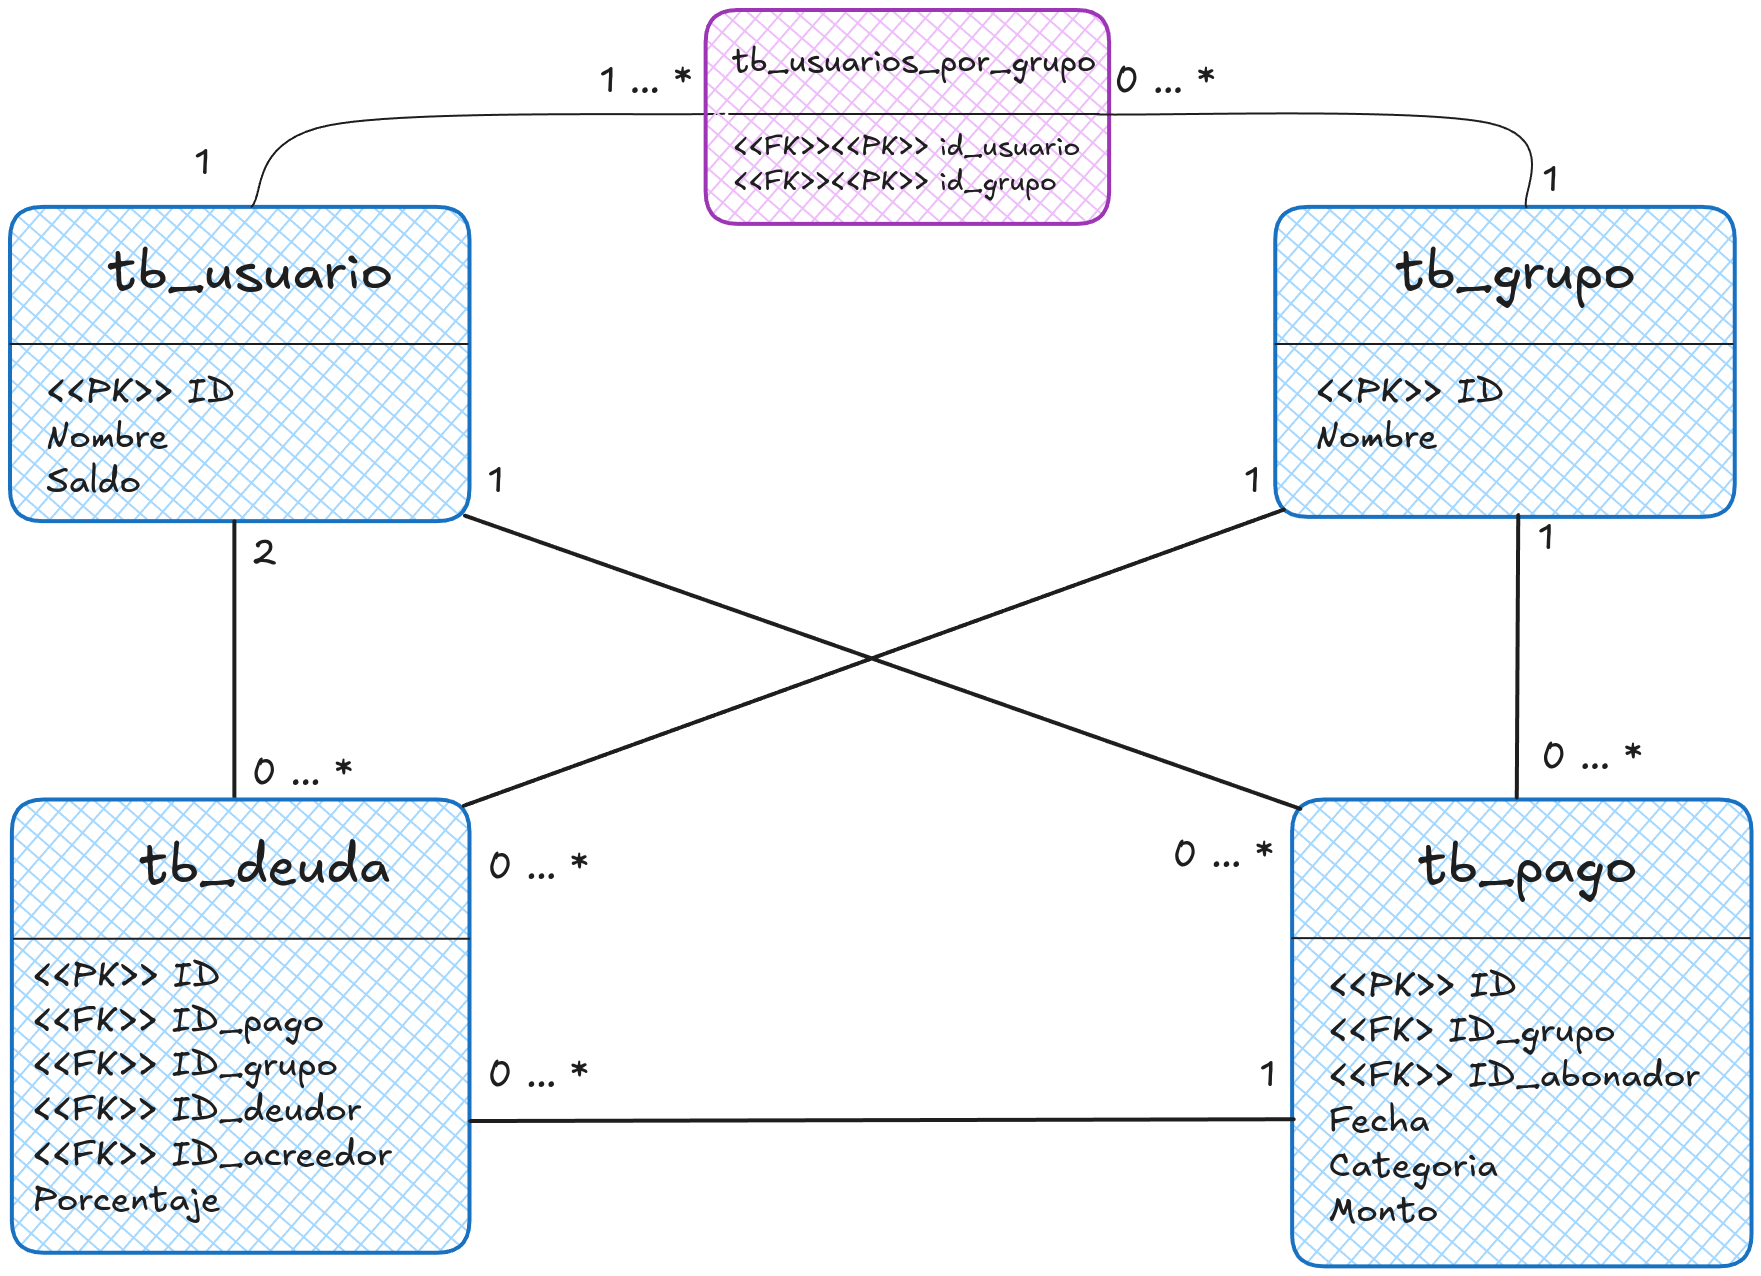
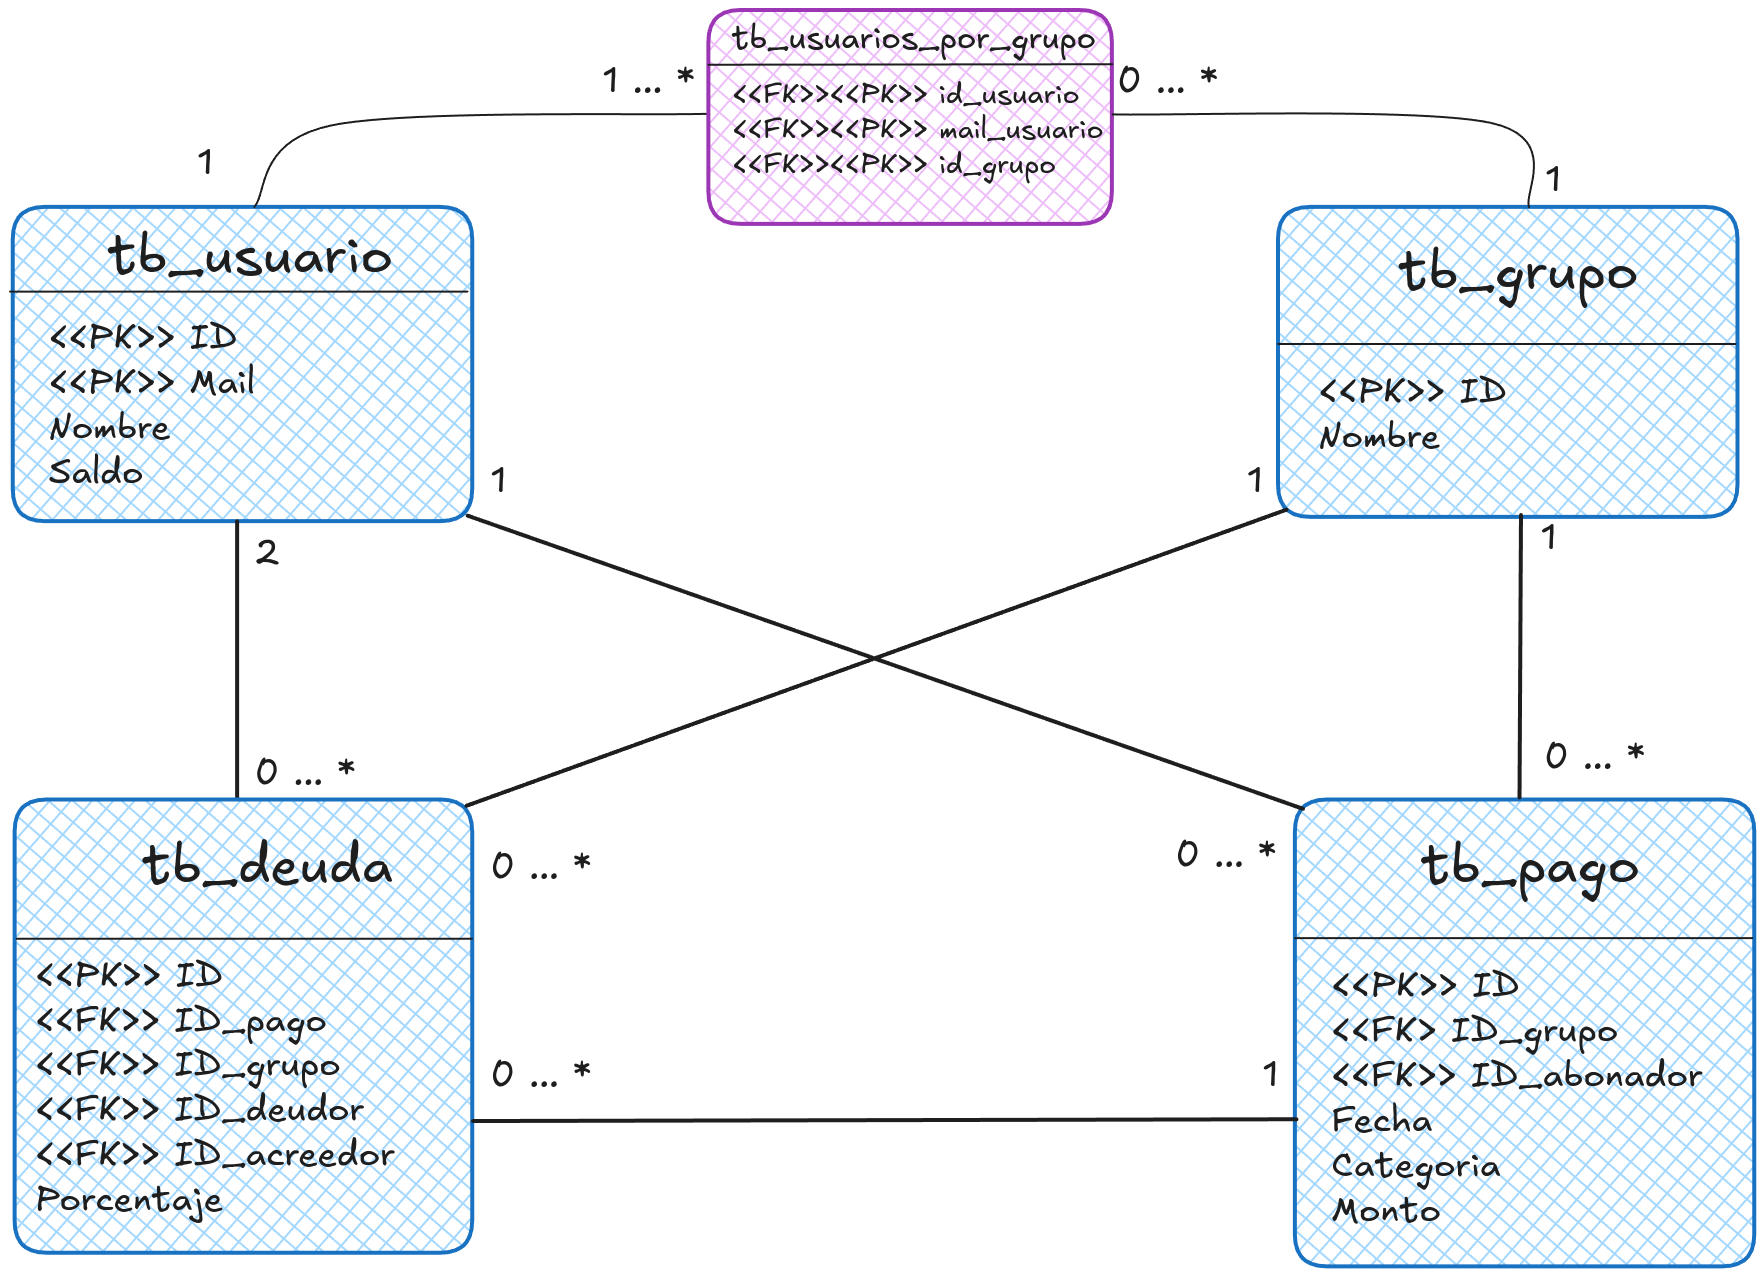
now yes i update the types in the tables etc

diff --git a/service/exceptions/users_exceptions.py b/service/exceptions/users_exceptions.py
@@ -1,10 +1,10 @@
-MESSAGE_USER_NOT_REGISTERED = "El usuario de id {user_id} no existe"
+MESSAGE_USER_NOT_REGISTERED = "El usuario de mail {user_mail} no existe"
 MESSAGE_USER_HAVE_NOT_NAME = "El usuario debe poseer un nombre"
-MESSAGE_USER_ALREADY_REGISTERED = "El usuario de id {user_id} ya existe"
+MESSAGE_USER_ALREADY_REGISTERED = "El usuario de id {user_mail} ya existe"
 
 class UserNotRegistered(Exception):
-    def __init__(self, user_id):
-        self.message = MESSAGE_USER_NOT_REGISTERED.format(user_id)
+    def __init__(self, user_mail):
+        self.message = MESSAGE_USER_NOT_REGISTERED.format(user_mail)
         super().__init__(self.message)
 
 class UserWithoutName(Exception):
@@ -13,6 +13,6 @@ class UserWithoutName(Exception):
         super().__init__(self.message)
 
 class UserAlreadyRegistered(Exception):
-    def __init__(self, user_id):
-        self.message = MESSAGE_USER_ALREADY_REGISTERED.format(user_id)
+    def __init__(self, user_mail):
+        self.message = MESSAGE_USER_ALREADY_REGISTERED.format(user_mail)
         super().__init__(self.message)

diff --git a/tables/debt_base.py b/tables/debt_base.py
@@ -1,6 +1,6 @@
 from database import Base
 from pydantic import BaseModel
-from sqlalchemy import Column, Integer, Float, ForeignKey
+from sqlalchemy import Column, Integer, Float, ForeignKey, String
 from typing import Optional
 
 class DebtBase(Base):
@@ -9,8 +9,10 @@ class DebtBase(Base):
     debt_id = Column(Integer, primary_key=True, autoincrement=True)
     payment_id = Column(Integer, ForeignKey("payments.payment_id"))
     group_id = Column(Integer, ForeignKey("groups.group_id"))
-    debtor_id = Column(Integer, ForeignKey("users.user_id"))
-    creditor_id = Column(Integer, ForeignKey("users.user_id"))
+#    debtor_id = Column(Integer, ForeignKey("users.user_id"))
+#    creditor_id = Column(Integer, ForeignKey("users.user_id"))
+    debtor_mail = Column(String, ForeignKey("users.mail"))
+    creditor_mail = Column(String, ForeignKey("users.mail"))
     percentage = Column(Float)
 
 class DebtUpdate(BaseModel):

diff --git a/tables/payment_base.py b/tables/payment_base.py
@@ -1,6 +1,6 @@
 from database import Base
 import enum
-from sqlalchemy import Column, Integer, Float, Date, Enum, ForeignKey
+from sqlalchemy import Column, Integer, Float, Date, Enum, ForeignKey, String
 from datetime import date
 from pydantic import BaseModel
 from typing import Optional
@@ -20,7 +20,8 @@ class PaymentBase(Base):
 
     payment_id = Column(Integer, primary_key=True, autoincrement=True)
     group_id = Column(Integer, ForeignKey("groups.group_id"))
-    payer_id = Column(Integer, ForeignKey("users.user_id"))
+#    payer_id = Column(Integer, ForeignKey("users.user_id"))
+    payer_mail = Column(String, ForeignKey("users.mail"))
     date = Column(Date)
     category = Column(Enum(Category))
     amount = Column(Float)

diff --git a/service/user_service.py b/service/user_service.py
@@ -21,10 +21,10 @@ class UserService:
         return self.user_repository.create_user(user)
        
     def get_user(self, 
-                 user_id: int) -> UserBase:
-        user = self.user_repository.get_user(user_id)
+                 mail_user: str) -> UserBase:
+        user = self.user_repository.get_user(mail_user)
         if user is None:
-            raise UserNotRegistered(user_id)
+            raise UserNotRegistered(mail_user)
         return user
        
     def get_users(self) -> list[UserBase]:

diff --git a/controller/user_controller.py b/controller/user_controller.py
@@ -23,10 +23,10 @@ async def get_users(db: Session = Depends(get_database)):
     return UserService(db).get_users()
 
 @router.get("/users/{user_id}")
-async def get_user(user_id: int,
+async def get_user(mail: str,
                    db: Session = Depends(get_database)):
     try:
-        return UserService(db).get_user(user_id)
+        return UserService(db).get_user(mail)
     except UserNotRegistered as e:
         raise HTTPException(status_code=status.HTTP_404_NOT_FOUND, detail=e.message)        
 

diff --git a/repository/user_repository.py b/repository/user_repository.py
@@ -15,8 +15,8 @@ class UserRepository:
     def get_users(self) -> list[UserBase]:
         return self.db.query(UserBase).all()
 
-    def get_user(self, user_id: int) -> UserBase:
-        return self.db.query(UserBase).filter(UserBase.user_id == user_id).first()
+    def get_user(self, mail: str) -> UserBase:
+        return self.db.query(UserBase).filter(UserBase.mail == mail).first()
     
     def update_user(self, user: UserBase) -> UserBase:
         self.db.commit()

diff --git a/tables/user_base.py b/tables/user_base.py
@@ -6,9 +6,11 @@ from pydantic import Optional, BaseModel
 class UserBase(Base):
     __tablename__ = "users"
 
-    user_id = Column(Integer, primary_key=True, autoincrement=True)
+#    user_id = Column(Integer, primary_key=True, autoincrement=True)
+    mail = Column(Integer, primary_key=True)
     name = Column(String)
     balance = Column(Float, default=0)
+    password = Column(String)
 
 class UserUpdate(BaseModel):
     name = Optional[str] = None

diff --git a/tables/users_by_group_base.py b/tables/users_by_group_base.py
@@ -5,4 +5,5 @@ class UserInGroupBase(Base):
     __tablename__ = "users_by_group"
 
     group_id = Column(Integer, ForeignKey("groups.group_id"))
-    user_id = Column(Integer, ForeignKey("users.user_id"))
+#    user_id = Column(Integer, ForeignKey("users.user_id"))
+    user_mail = Column(Integer, ForeignKey("users.mail"))
